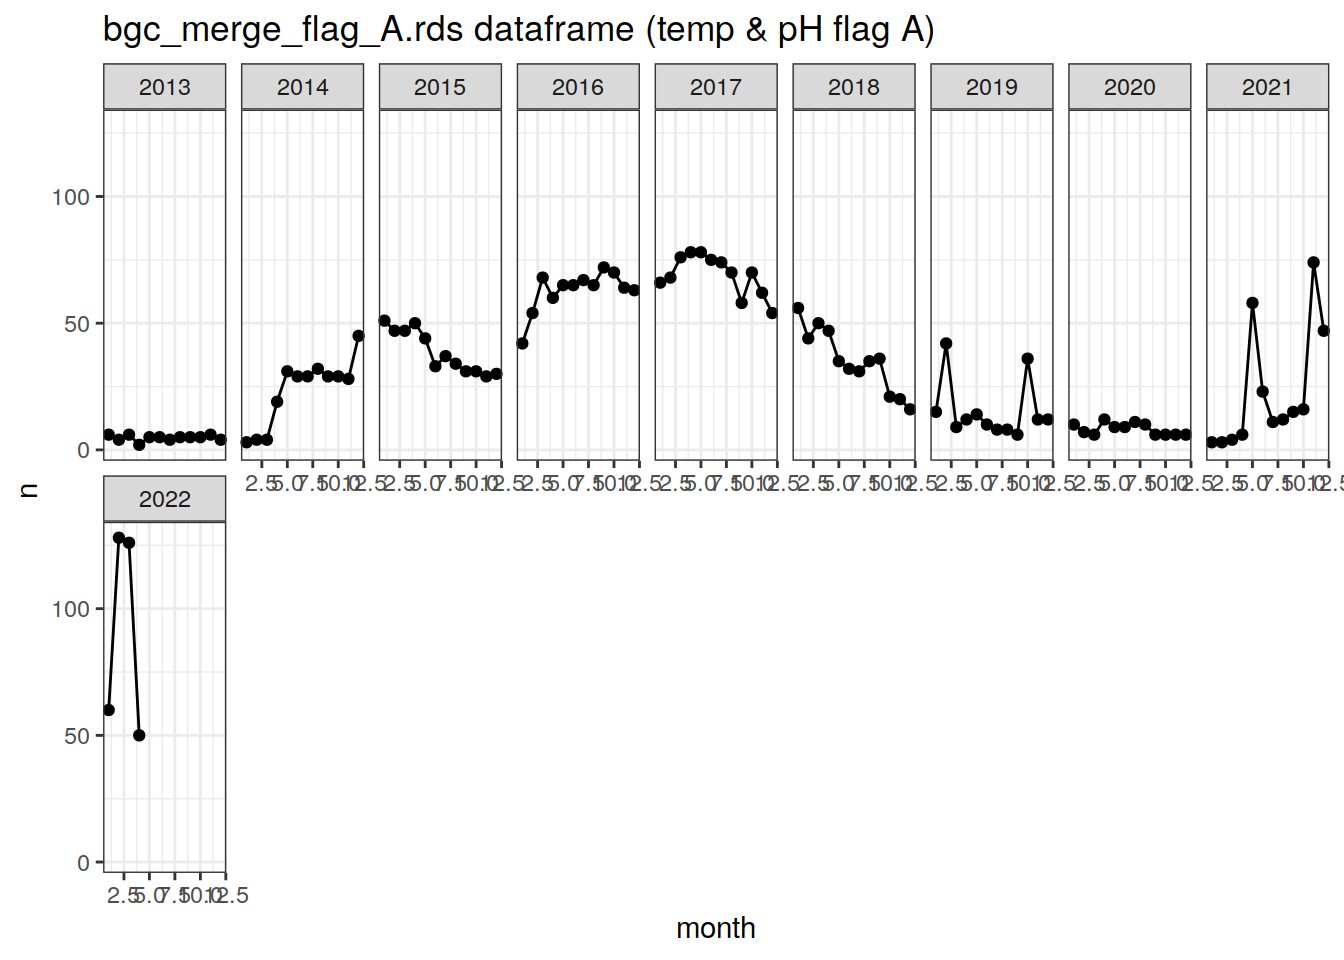
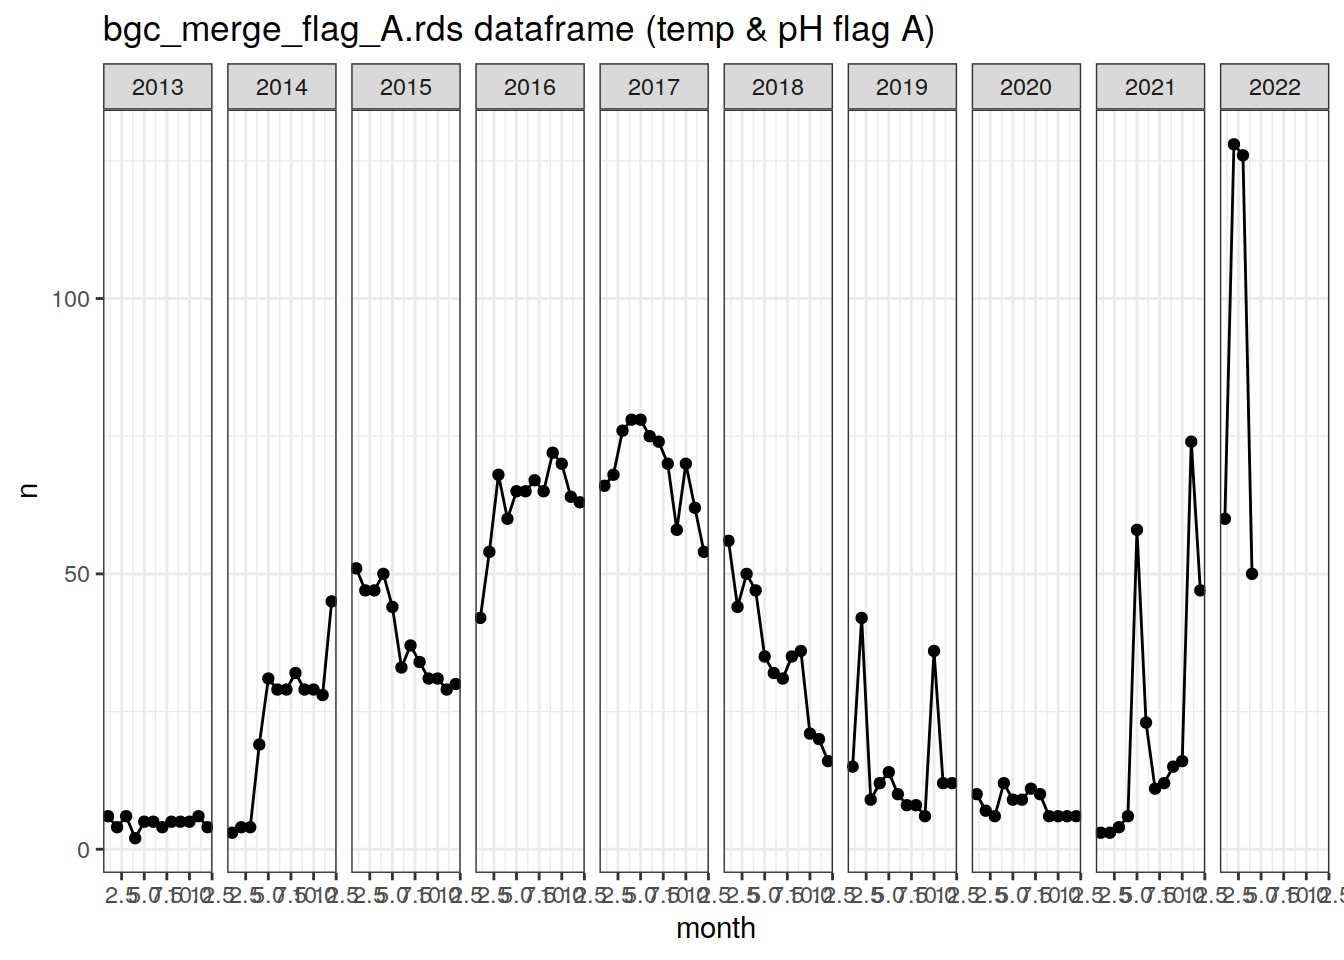
Build site.

diff --git a/docs/coverage_timeseries.html b/docs/coverage_timeseries.html
@@ -456,7 +456,7 @@ div.tocify {
 
 <h1 class="title toc-ignore">Temporal data coverage</h1>
 <h4 class="author">Pasqualina Vonlanthen &amp; Jens Daniel Müller</h4>
-<h4 class="date">09 May, 2022</h4>
+<h4 class="date">10 May, 2022</h4>
 
 </div>
 
@@ -481,7 +481,7 @@ div.tocify {
 <div class="tab-content">
 <div id="summary" class="tab-pane fade in active">
 <p>
-<strong>Last updated:</strong> 2022-05-09
+<strong>Last updated:</strong> 2022-05-10
 </p>
 <p>
 <strong>Checks:</strong> <span class="glyphicon glyphicon-ok text-success" aria-hidden="true"></span> 7 <span class="glyphicon glyphicon-exclamation-sign text-danger" aria-hidden="true"></span> 0
@@ -572,16 +572,16 @@ This reproducible <a href="https://rmarkdown.rstudio.com">R Markdown</a> analysi
 <div class="panel panel-default">
 <div class="panel-heading">
 <p class="panel-title">
-<a data-toggle="collapse" data-parent="#workflowr-checks" href="#strongRepositoryversionstrongahrefhttpsgithubcomjensdanielmuellerbgcargorargodatatreea66f31cd8df28865ea9a770cd1b81b53065670d6targetblanka66f31ca"> <span class="glyphicon glyphicon-ok text-success" aria-hidden="true"></span> <strong>Repository version:</strong> <a href="https://github.com/jens-daniel-mueller/bgc_argo_r_argodata/tree/a66f31cd8df28865ea9a770cd1b81b53065670d6" target="_blank">a66f31c</a> </a>
+<a data-toggle="collapse" data-parent="#workflowr-checks" href="#strongRepositoryversionstrongahrefhttpsgithubcomjensdanielmuellerbgcargorargodatatreebbafe7cf6c51c93ff66c84eaf37e9bb7ba0d9198targetblankbbafe7ca"> <span class="glyphicon glyphicon-ok text-success" aria-hidden="true"></span> <strong>Repository version:</strong> <a href="https://github.com/jens-daniel-mueller/bgc_argo_r_argodata/tree/bbafe7cf6c51c93ff66c84eaf37e9bb7ba0d9198" target="_blank">bbafe7c</a> </a>
 </p>
 </div>
[2 lines of base64/hex data omitted]
 <div class="panel-body">
 <p>
 Great! You are using Git for version control. Tracking code development and connecting the code version to the results is critical for reproducibility.
 </p>
 <p>
-The results in this page were generated with repository version <a href="https://github.com/jens-daniel-mueller/bgc_argo_r_argodata/tree/a66f31cd8df28865ea9a770cd1b81b53065670d6" target="_blank">a66f31c</a>. See the <em>Past versions</em> tab to see a history of the changes made to the R Markdown and HTML files.
+The results in this page were generated with repository version <a href="https://github.com/jens-daniel-mueller/bgc_argo_r_argodata/tree/bbafe7cf6c51c93ff66c84eaf37e9bb7ba0d9198" target="_blank">bbafe7c</a>. See the <em>Past versions</em> tab to see a history of the changes made to the R Markdown and HTML files.
 </p>
 <p>
 Note that you need to be careful to ensure that all relevant files for the analysis have been committed to Git prior to generating the results (you can use <code>wflow_publish</code> or <code>wflow_git_commit</code>). workflowr only checks the R Markdown file, but you know if there are other scripts or data files that it depends on. Below is the status of the Git repository when the results were generated:
@@ -637,6 +637,40 @@ Message
 </tr>
 </thead>
 <tbody>
+<tr>
+<td>
+Rmd
+</td>
+<td>
+<a href="https://github.com/jens-daniel-mueller/bgc_argo_r_argodata/blob/bbafe7cf6c51c93ff66c84eaf37e9bb7ba0d9198/analysis/coverage_timeseries.Rmd" target="_blank">bbafe7c</a>
+</td>
+<td>
+pasqualina-vonlanthendinenna
+</td>
+<td>
+2022-05-10
+</td>
+<td>
+updated profile counts timeseries
+</td>
+</tr>
+<tr>
+<td>
+html
+</td>
+<td>
+<a href="https://rawcdn.githack.com/jens-daniel-mueller/bgc_argo_r_argodata/f196b7c392b888ef5ffe757bcc791e138119f116/docs/coverage_timeseries.html" target="_blank">f196b7c</a>
+</td>
+<td>
+pasqualina-vonlanthendinenna
+</td>
+<td>
+2022-05-09
+</td>
+<td>
+Build site.
+</td>
+</tr>
 <tr>
 <td>
 Rmd
@@ -1577,6 +1611,46 @@ bgc_profile_counts_total &lt;- bgc_metadata %&gt;%
   count(parameter, profile_flag) %&gt;%   # count the number of occurrences of flags for each parameter
   filter(!is.na(profile_flag),
          profile_flag != &quot;&quot;)</code></pre>
+<pre class="r"><code># bgc_merge &lt;- read_rds(file = paste0(path_argo_preprocessed, &quot;/bgc_merge.rds&quot;))
+# 
+# bgc_profile_counts_test &lt;- bgc_merge %&gt;% 
+#   select(platform_number, cycle_number, date, profile_temp_qc,
+#          profile_doxy_qc, profile_ph_in_situ_total_qc, profile_nitrate_qc) %&gt;% 
+#   unite(&#39;platform_cycle&#39;, platform_number:cycle_number, sep = &#39;_&#39;, remove = FALSE) %&gt;% 
+#   mutate(year = year(date),
+#          month = month(date))
+# 
+# bgc_profile_counts_test_n &lt;- bgc_profile_counts_test %&gt;% 
+#   pivot_longer(cols = profile_temp_qc:profile_nitrate_qc,
+#                values_to = &#39;profile_flag&#39;,
+#                names_to = &#39;parameter&#39;,
+#                names_prefix = &#39;profile_&#39;) %&gt;% 
+#   distinct(year, month, platform_cycle, parameter, profile_flag) %&gt;% 
+#   group_by(year, month, parameter, profile_flag) %&gt;%
+#   count(platform_cycle) %&gt;% 
+#   group_by(year, month, parameter, profile_flag) %&gt;% 
+#   summarise(n = sum(n)) %&gt;% 
+#   filter(!is.na(profile_flag),
+#          profile_flag != &quot;&quot;)
+# 
+# 
+# # total number of profiles 
+# print(sum(bgc_profile_counts_test_n$n))
+# 
+# bgc_profile_counts_test_n %&gt;% 
+#   group_by(parameter) %&gt;% 
+#   group_split(parameter) %&gt;% 
+#   map(
+#     ~ ggplot(data = .x,
+#             aes(x = month, y = n, col = profile_flag))+
+#       geom_line()+
+#       geom_point()+
+#       facet_wrap(~year, 
+#                  ncol = 10)+
+#       labs(title = paste0(&#39;parameter:&#39;, unique(.x$parameter)))
+#   )
+
+# gives the same result as using bgc_metadata </code></pre>
 <div id="total-number-of-profiles" class="section level4">
 <h4>Total number of profiles</h4>
 <pre class="r"><code># count the total number of profiles, regardless of QC flag 
@@ -1731,7 +1805,7 @@ print(sum(flag_A_n$n))</code></pre>
   ggplot(aes(x = month, y = n))+
   geom_point()+
   geom_line()+
-  facet_wrap(~year, ncol = 9)+
+  facet_wrap(~year, ncol = 10)+
   labs(title = &#39;bgc_merge_flag_A.rds dataframe (temp &amp; pH flag A)&#39;)</code></pre>
 <p><img src="figure/coverage_timeseries.Rmd/flag_A_dataframe-1.png" width="672" style="display: block; margin: auto;" /></p>
 <p>
@@ -1756,6 +1830,17 @@ Date
 </tr>
 </thead>
 <tbody>
+<tr>
+<td>
+<a href="https://github.com/jens-daniel-mueller/bgc_argo_r_argodata/blob/f196b7c392b888ef5ffe757bcc791e138119f116/docs/figure/coverage_timeseries.Rmd/flag_A_dataframe-1.png" target="_blank">f196b7c</a>
+</td>
+<td>
+pasqualina-vonlanthendinenna
+</td>
+<td>
+2022-05-09
+</td>
+</tr>
 <tr>
 <td>
 <a href="https://github.com/jens-daniel-mueller/bgc_argo_r_argodata/blob/3f012baccda70e7d68d9552450217bea9f7e5619/docs/figure/coverage_timeseries.Rmd/flag_A_dataframe-1.png" target="_blank">3f012ba</a>
@@ -1892,6 +1977,17 @@ Date
 <tbody>
 <tr>
 <td>
+<a href="https://github.com/jens-daniel-mueller/bgc_argo_r_argodata/blob/f196b7c392b888ef5ffe757bcc791e138119f116/docs/figure/coverage_timeseries.Rmd/profiles_timeseries_per_parameter-1.png" target="_blank">f196b7c</a>
+</td>
+<td>
+pasqualina-vonlanthendinenna
+</td>
+<td>
+2022-05-09
+</td>
+</tr>
+<tr>
+<td>
 <a href="https://github.com/jens-daniel-mueller/bgc_argo_r_argodata/blob/7f3cfe780c2d1c4012588b36151b5e0c3dca5d1d/docs/figure/coverage_timeseries.Rmd/profiles_timeseries_per_parameter-1.png" target="_blank">7f3cfe7</a>
 </td>
 <td>
@@ -1996,6 +2092,17 @@ Date
 </tr>
 </thead>
 <tbody>
+<tr>
+<td>
+<a href="https://github.com/jens-daniel-mueller/bgc_argo_r_argodata/blob/f196b7c392b888ef5ffe757bcc791e138119f116/docs/figure/coverage_timeseries.Rmd/profiles_timeseries_per_parameter-2.png" target="_blank">f196b7c</a>
+</td>
+<td>
+pasqualina-vonlanthendinenna
+</td>
+<td>
+2022-05-09
+</td>
+</tr>
 <tr>
 <td>
 <a href="https://github.com/jens-daniel-mueller/bgc_argo_r_argodata/blob/7f3cfe780c2d1c4012588b36151b5e0c3dca5d1d/docs/figure/coverage_timeseries.Rmd/profiles_timeseries_per_parameter-2.png" target="_blank">7f3cfe7</a>
@@ -2104,6 +2211,17 @@ Date
 <tbody>
 <tr>
 <td>
+<a href="https://github.com/jens-daniel-mueller/bgc_argo_r_argodata/blob/f196b7c392b888ef5ffe757bcc791e138119f116/docs/figure/coverage_timeseries.Rmd/profiles_timeseries_per_parameter-3.png" target="_blank">f196b7c</a>
+</td>
+<td>
+pasqualina-vonlanthendinenna
+</td>
+<td>
+2022-05-09
+</td>
+</tr>
+<tr>
+<td>
 <a href="https://github.com/jens-daniel-mueller/bgc_argo_r_argodata/blob/7f3cfe780c2d1c4012588b36151b5e0c3dca5d1d/docs/figure/coverage_timeseries.Rmd/profiles_timeseries_per_parameter-3.png" target="_blank">7f3cfe7</a>
 </td>
 <td>
@@ -2210,6 +2328,17 @@ Date
 <tbody>
 <tr>
 <td>
+<a href="https://github.com/jens-daniel-mueller/bgc_argo_r_argodata/blob/f196b7c392b888ef5ffe757bcc791e138119f116/docs/figure/coverage_timeseries.Rmd/profiles_timeseries_per_parameter-4.png" target="_blank">f196b7c</a>
+</td>
+<td>
+pasqualina-vonlanthendinenna
+</td>
+<td>
+2022-05-09
+</td>
+</tr>
+<tr>
+<td>
 <a href="https://github.com/jens-daniel-mueller/bgc_argo_r_argodata/blob/3f012baccda70e7d68d9552450217bea9f7e5619/docs/figure/coverage_timeseries.Rmd/profiles_timeseries_per_parameter-4.png" target="_blank">3f012ba</a>
 </td>
 <td>
@@ -2281,6 +2410,17 @@ Date
 </tr>
 </thead>
 <tbody>
+<tr>
+<td>
+<a href="https://github.com/jens-daniel-mueller/bgc_argo_r_argodata/blob/f196b7c392b888ef5ffe757bcc791e138119f116/docs/figure/coverage_timeseries.Rmd/profiles_timeseries_total_A-1.png" target="_blank">f196b7c</a>
+</td>
+<td>
+pasqualina-vonlanthendinenna
+</td>
+<td>
+2022-05-09
+</td>
+</tr>
 <tr>
 <td>
 <a href="https://github.com/jens-daniel-mueller/bgc_argo_r_argodata/blob/7f3cfe780c2d1c4012588b36151b5e0c3dca5d1d/docs/figure/coverage_timeseries.Rmd/profiles_timeseries_total_A-1.png" target="_blank">7f3cfe7</a>
@@ -2425,6 +2565,17 @@ Date
 <tbody>
 <tr>
 <td>
+<a href="https://github.com/jens-daniel-mueller/bgc_argo_r_argodata/blob/f196b7c392b888ef5ffe757bcc791e138119f116/docs/figure/coverage_timeseries.Rmd/plot_region_map-1.png" target="_blank">f196b7c</a>
+</td>
+<td>
+pasqualina-vonlanthendinenna
+</td>
+<td>
+2022-05-09
+</td>
+</tr>
+<tr>
+<td>
 <a href="https://github.com/jens-daniel-mueller/bgc_argo_r_argodata/blob/8805f99ea10fef4a7f7b188bd45df79353237014/docs/figure/coverage_timeseries.Rmd/plot_region_map-1.png" target="_blank">8805f99</a>
 </td>
 <td>
@@ -2542,6 +2693,17 @@ Date
 </tr>
 </thead>
 <tbody>
+<tr>
+<td>
+<a href="https://github.com/jens-daniel-mueller/bgc_argo_r_argodata/blob/f196b7c392b888ef5ffe757bcc791e138119f116/docs/figure/coverage_timeseries.Rmd/profiles_timeseries_total_A_per_region-1.png" target="_blank">f196b7c</a>
+</td>
+<td>
+pasqualina-vonlanthendinenna
+</td>
+<td>
+2022-05-09
+</td>
+</tr>
 <tr>
 <td>
 <a href="https://github.com/jens-daniel-mueller/bgc_argo_r_argodata/blob/7f3cfe780c2d1c4012588b36151b5e0c3dca5d1d/docs/figure/coverage_timeseries.Rmd/profiles_timeseries_total_A_per_region-1.png" target="_blank">7f3cfe7</a>
